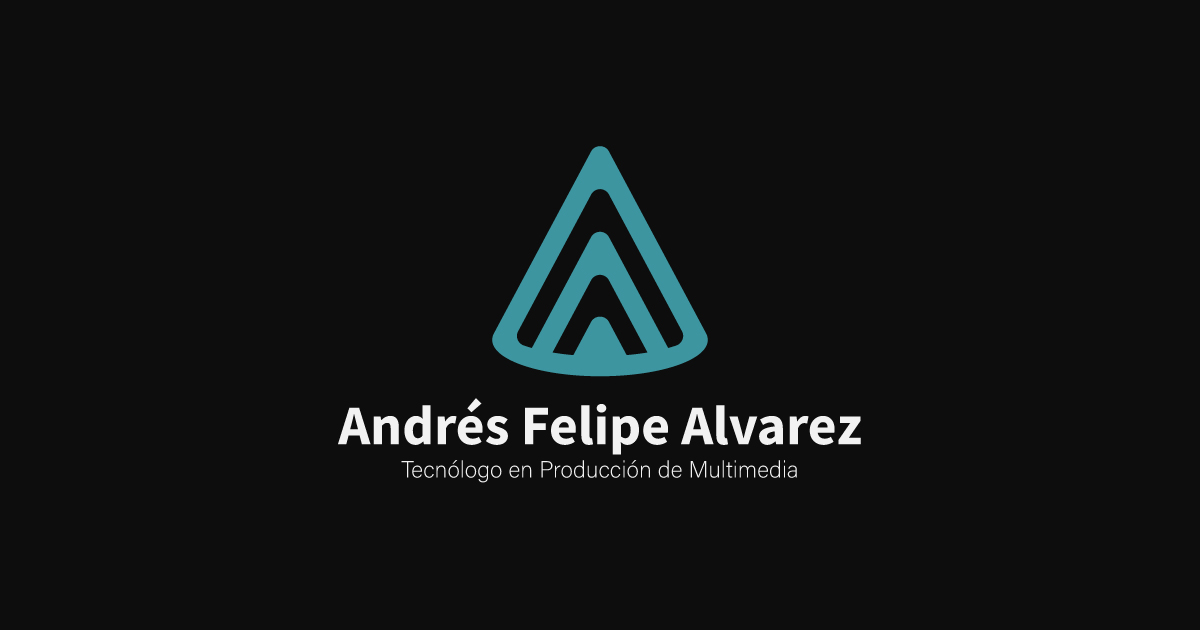
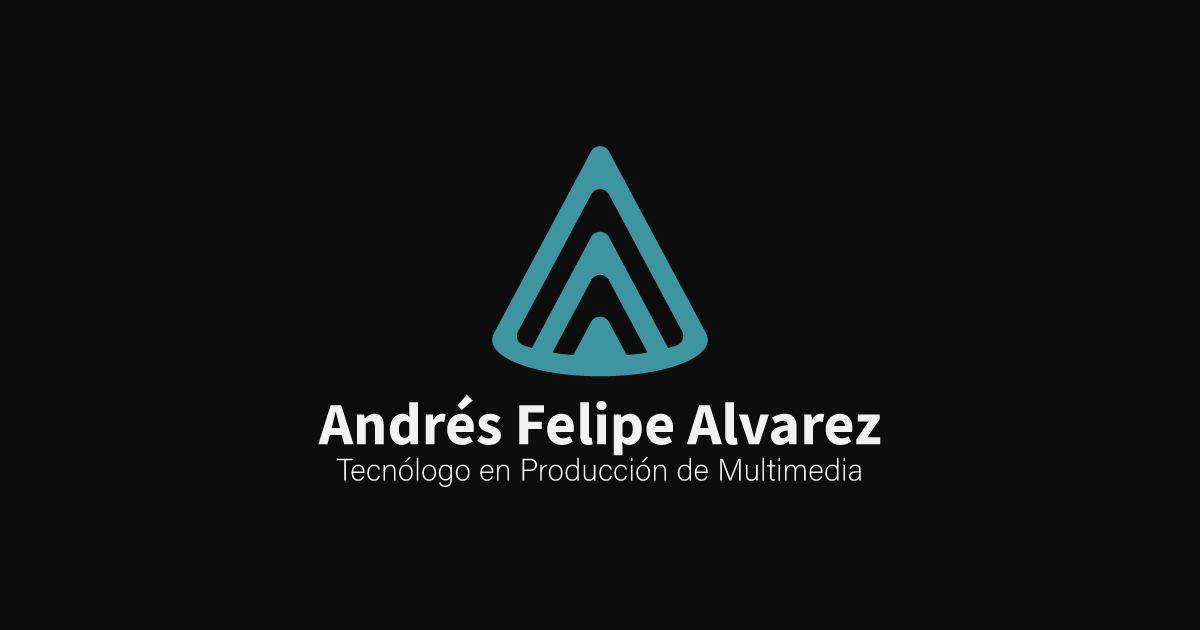
modifica PWA archivos cache y la imagen para redes sociales

Changed region(s): [[0.2467, 0.6333, 0.74, 0.7841]]

diff --git a/gatsby-config.js b/gatsby-config.js
@@ -51,7 +51,7 @@ module.exports = {
         workboxConfig: {
           runtimeCaching: [
             {
-              urlPattern: /(\.js$|\.css$|\.woff$|\.woff2$|\.svg$)/,
+              urlPattern: /(\.css$|\.woff$|\.woff2$|\.svg$)/,
               handler: `StaleWhileRevalidate`
             }
           ]
